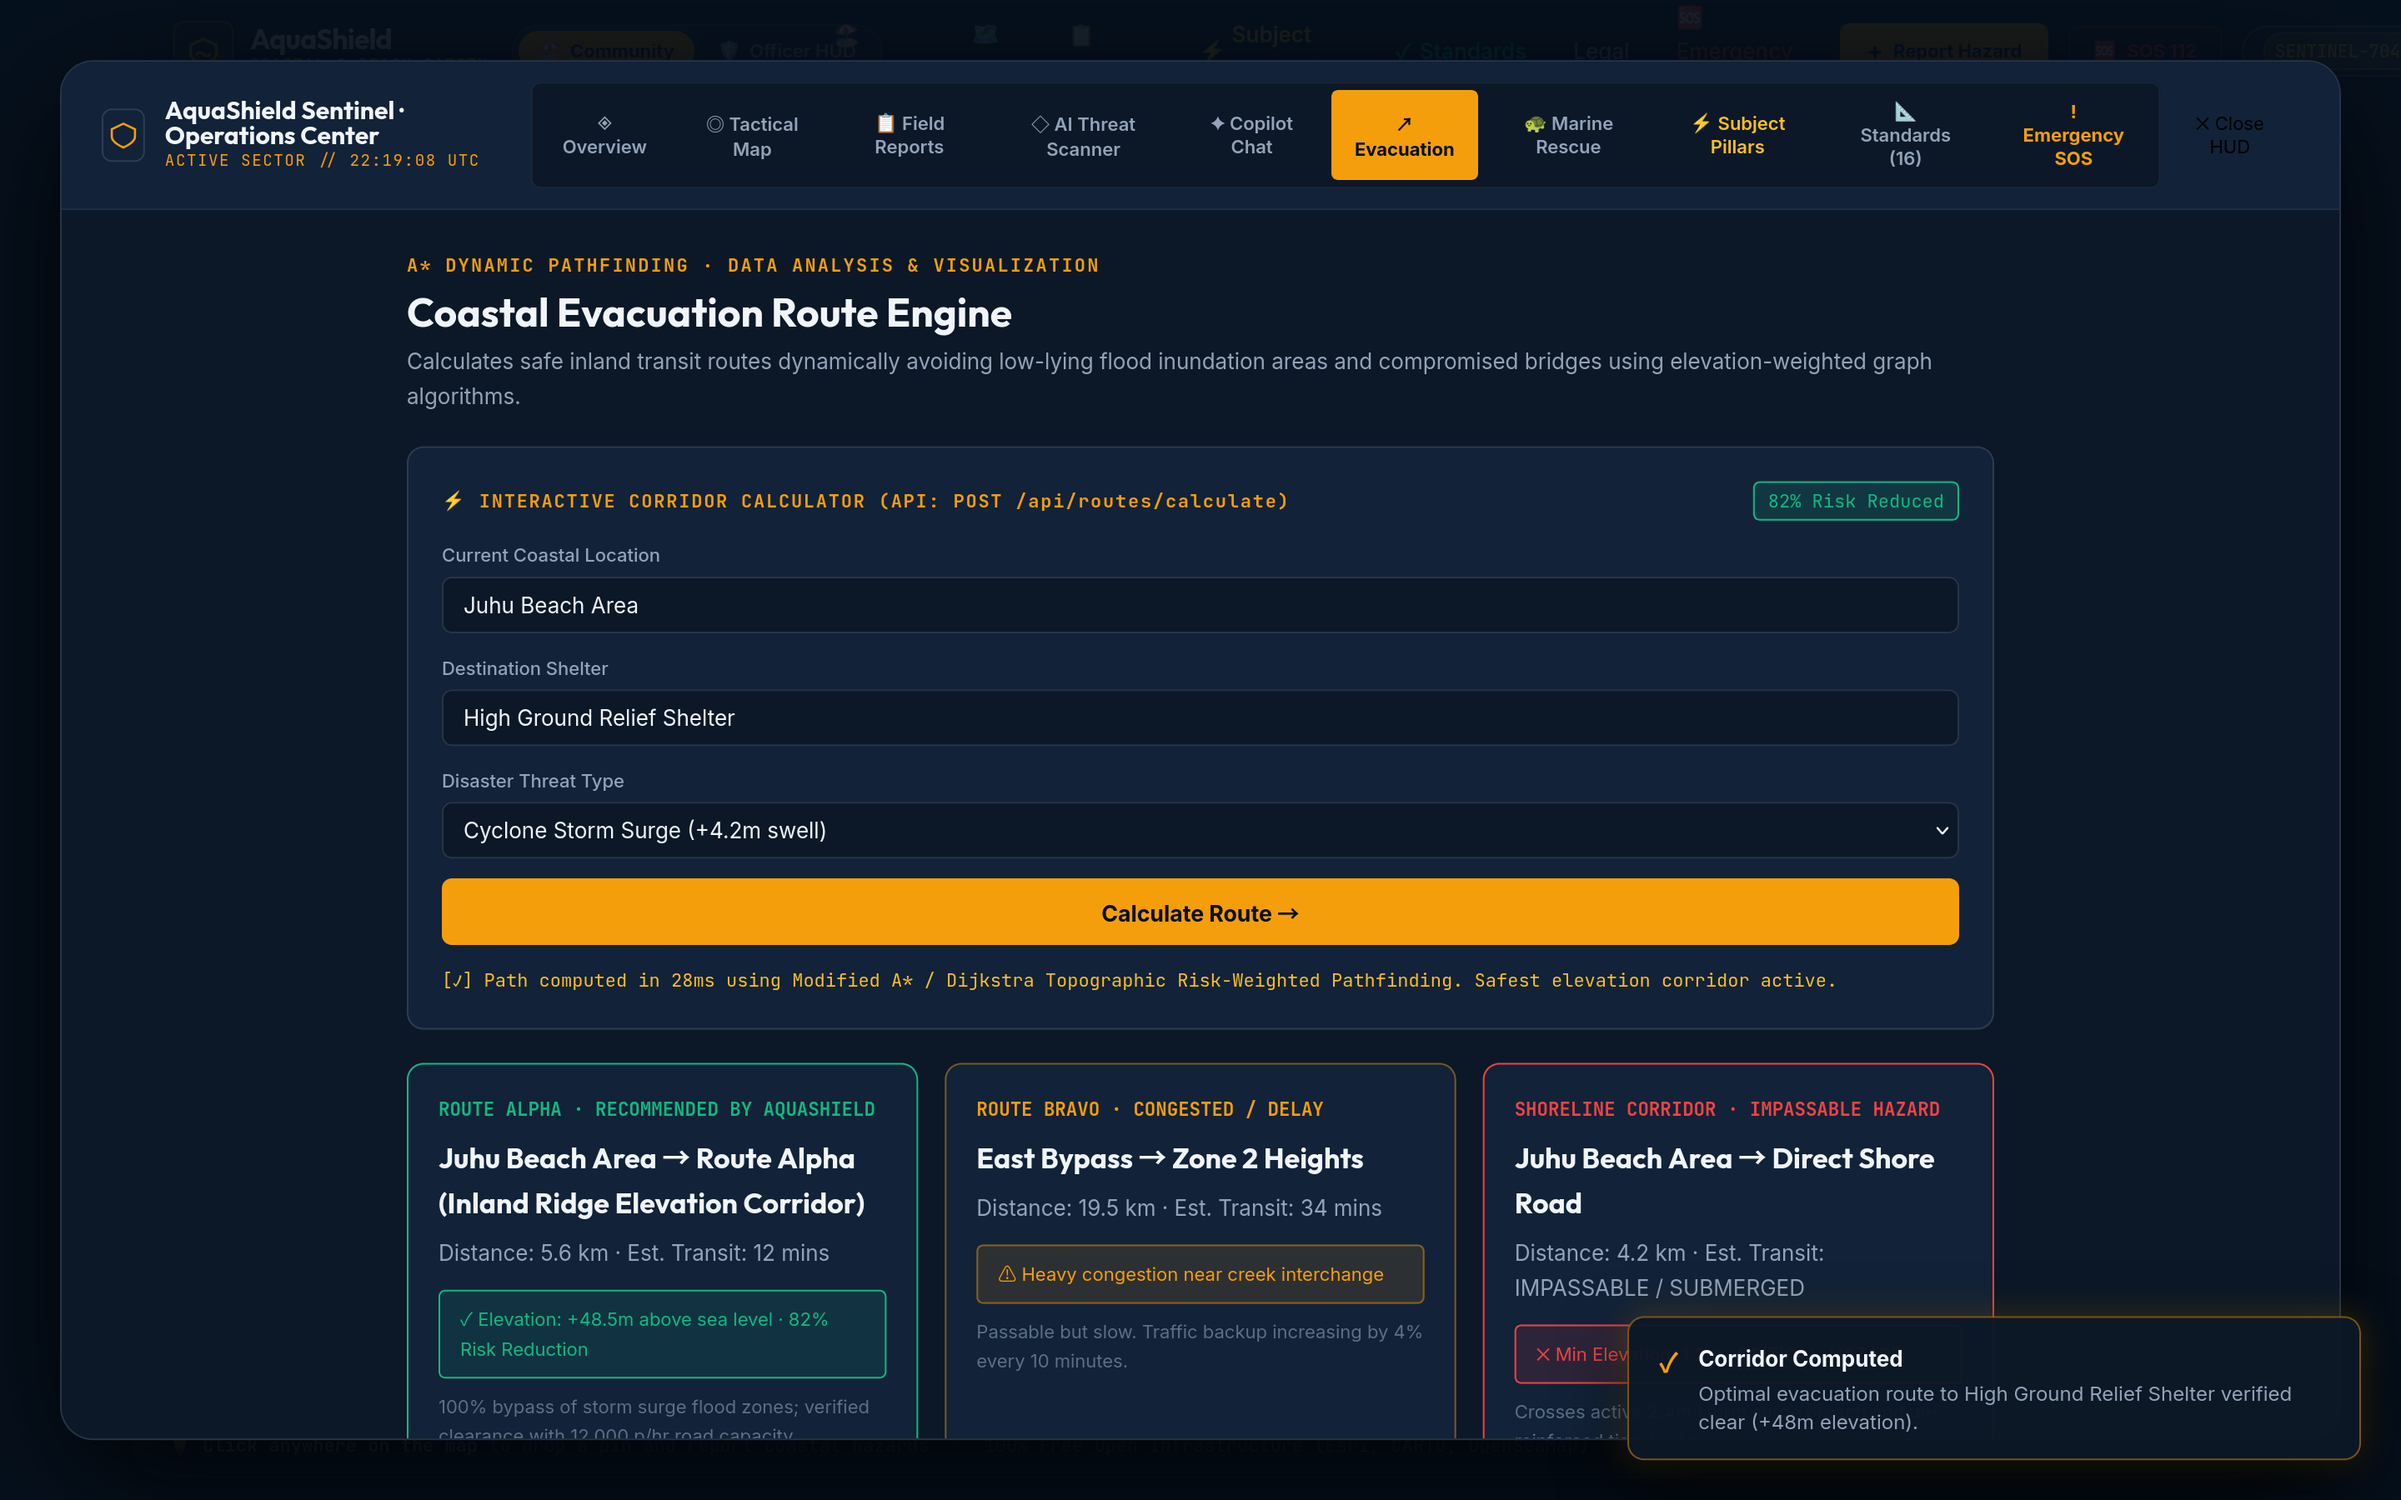
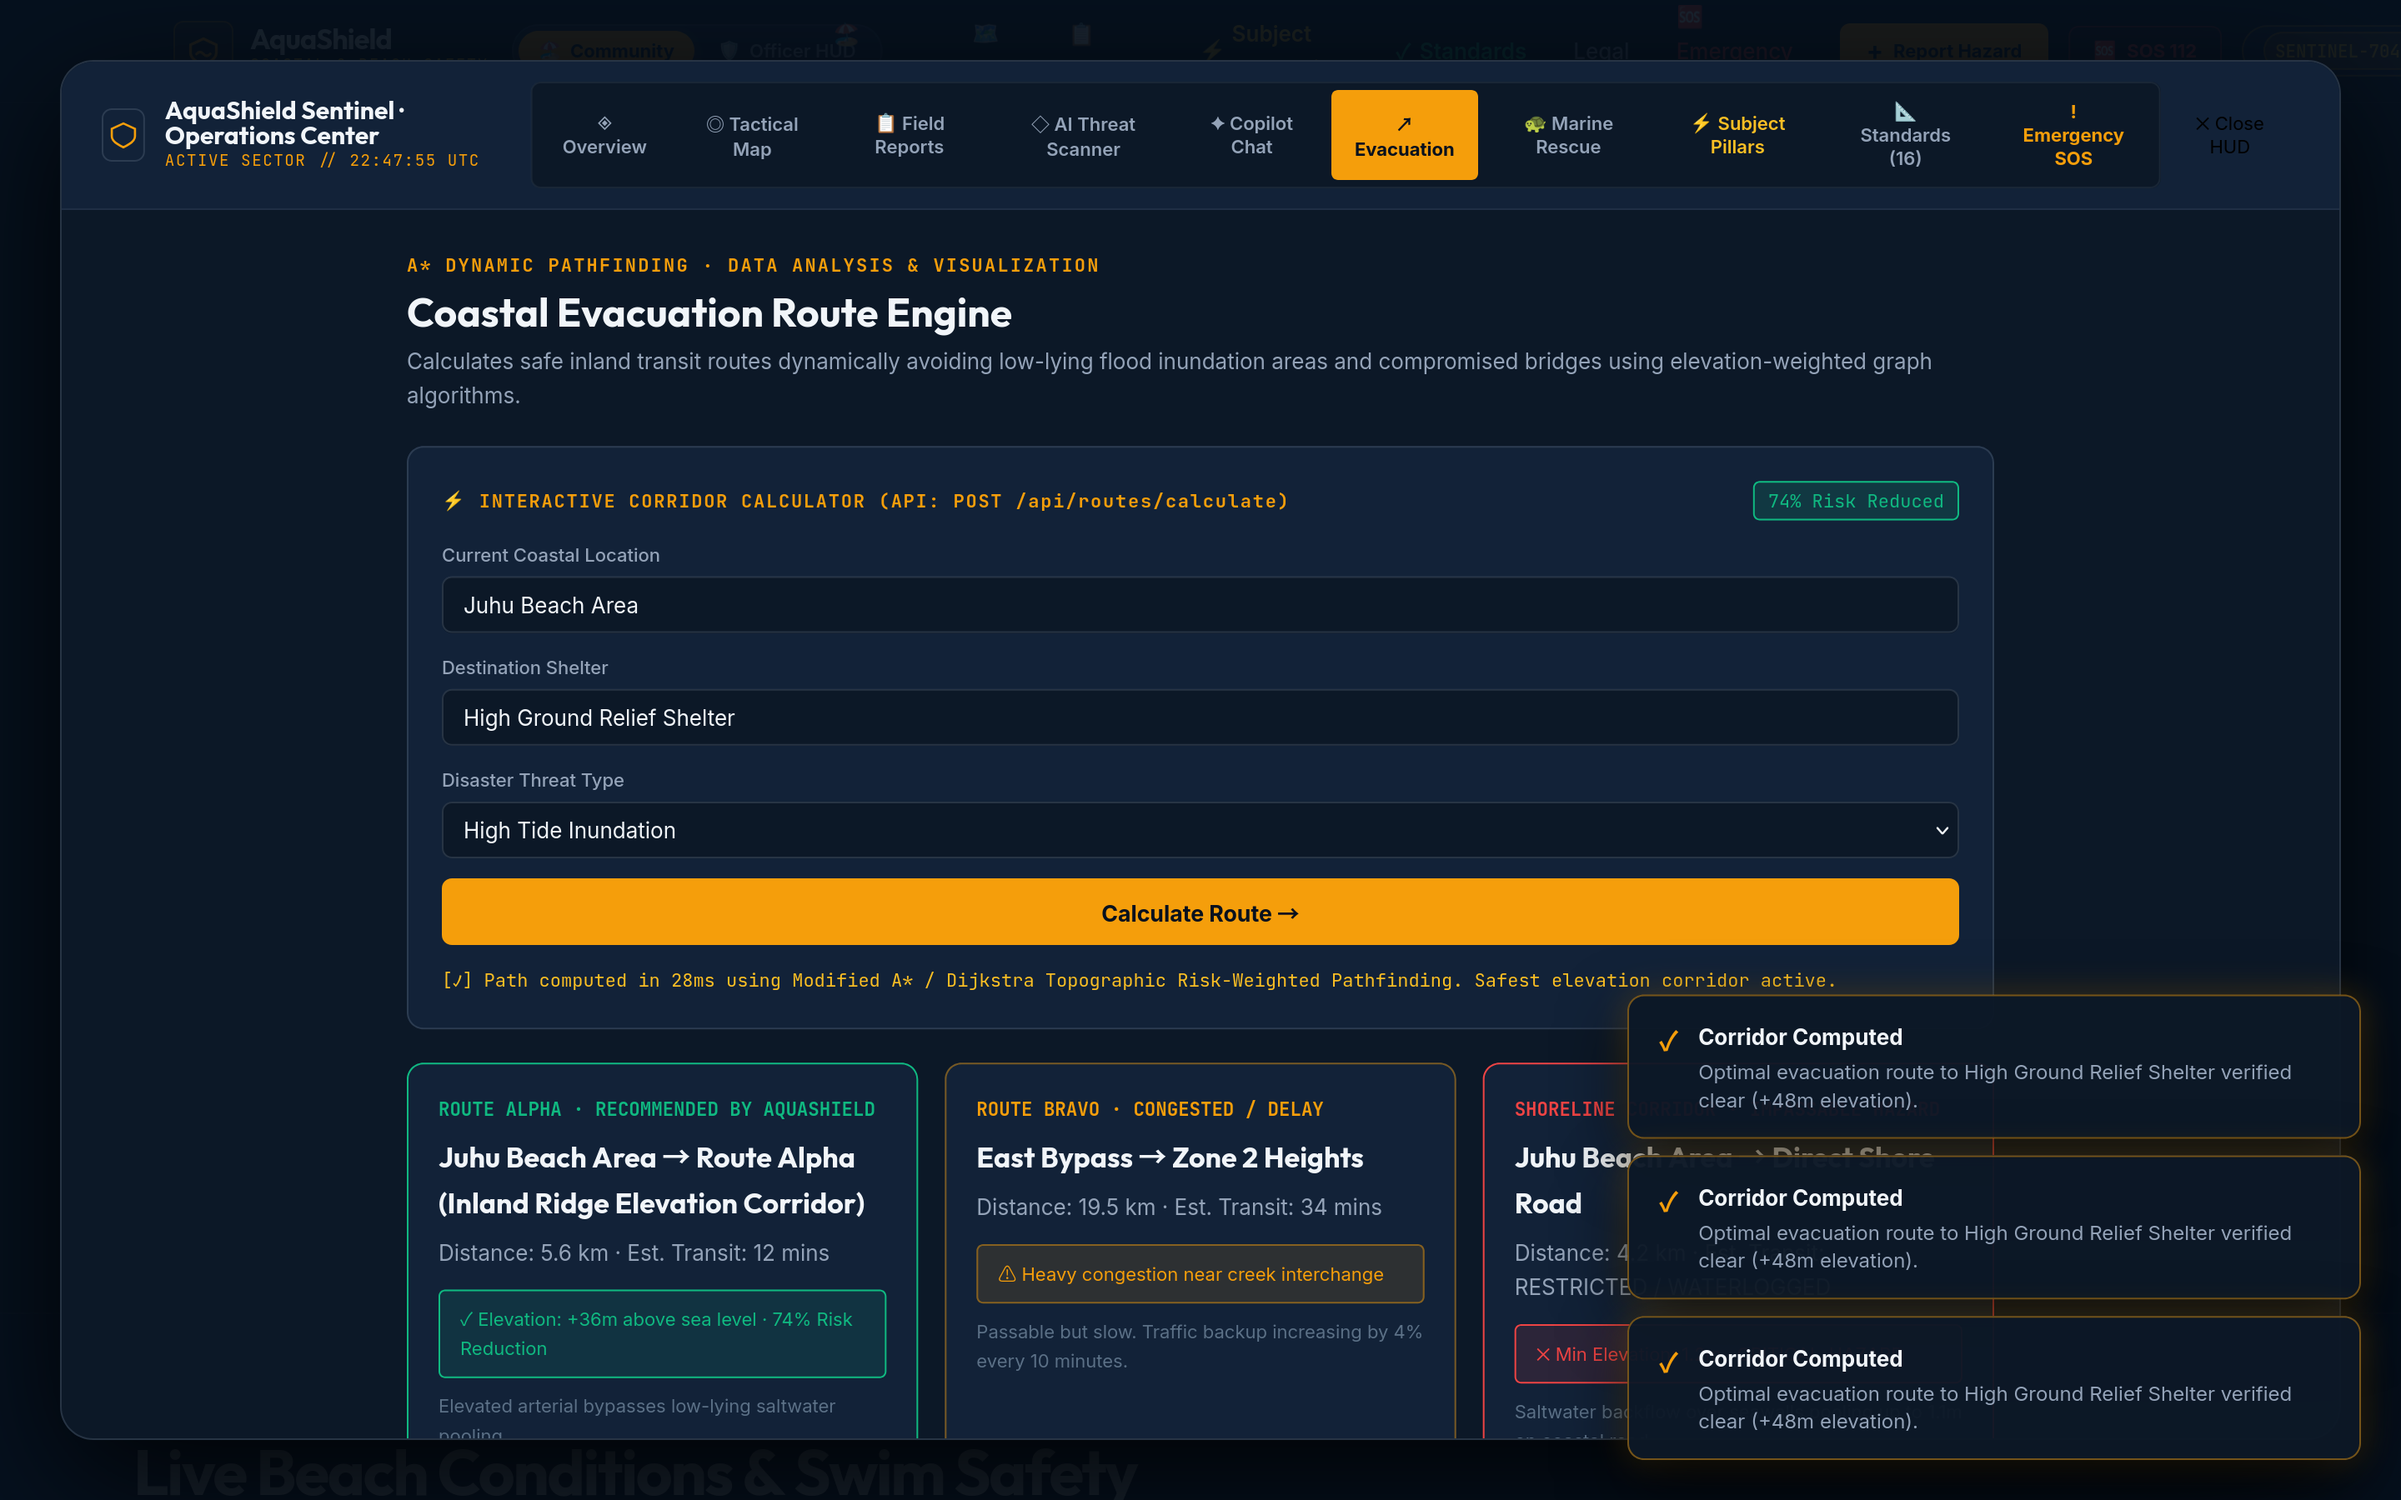
style: remove em-dash occurrences across backend services and add coordinate fallback to routes

diff --git a/backend/app/services/ai_service.py b/backend/app/services/ai_service.py
@@ -310,13 +310,13 @@ class AIService:
             status = "quarantined"
             final_auth_pct = 14.2
             verdict = "2D ARTWORK / ANIME / DIGITAL ILLUSTRATION DETECTED"
-            action = "Quarantined — Artwork / cartoon rejected from Tactical Maritime Grid"
+            action = "Quarantined: Artwork / cartoon rejected from Tactical Maritime Grid"
             pipeline_name = "AquaShield Art-Spectral Vision Filter v2.1"
         elif metadata_tamper_flag:
             status = "quarantined"
             final_auth_pct = 22.4
             verdict = "DIGITAL TAMPERING / EDITING SOFTWARE SIGNATURE"
-            action = "Quarantined — Image contains Photoshop/AI metadata header"
+            action = "Quarantined: Image contains Photoshop/AI metadata header"
             pipeline_name = "AquaShield Dual-Stream EfficientNet-ELA Neural Network v2.1"
         elif dl_auth_prob is not None:
             exif_w = 0.95 if has_exif else 0.70
@@ -338,7 +338,7 @@ class AIService:
             final_auth_pct = round(min(99.4, max(12.0, raw_auth_score * 100.0)), 1)
             pipeline_name = "AquaShield Spectral-ELA Vision Forensics Engine v2.0"
             status = "verified" if final_auth_pct >= 70.0 else "advisory"
-            verdict = "AUTHENTIC OPTICAL FIELD CAPTURE" if status == "verified" else "MODERATE CONFIDENCE — UNVERIFIED SENSOR EXIF"
+            verdict = "AUTHENTIC OPTICAL FIELD CAPTURE" if status == "verified" else "MODERATE CONFIDENCE - UNVERIFIED SENSOR EXIF"
             action = "Verified and logged to grid" if status == "verified" else "Logged with standard priority"
 
         return {
@@ -375,7 +375,7 @@ class AIService:
                 "ela_score": 18.5,
                 "noise_entropy": 31.0,
                 "verdict": "DIGITAL SPLICING / HIGH ELA INCONSISTENCY",
-                "action": "Quarantined — Image compression signature indicates multi-source splicing",
+                "action": "Quarantined: Image compression signature indicates multi-source splicing",
                 "forensics": {
                     "has_exif_metadata": False,
                     "camera_device": "Unknown Optical Sensor",
@@ -399,7 +399,7 @@ class AIService:
                 "ela_score": 11.2,
                 "noise_entropy": 16.0,
                 "verdict": "2D ARTWORK / SYNTHETIC MEDIA DETECTED",
-                "action": "Quarantined — Non-real world optical capture rejected from tactical grid",
+                "action": "Quarantined: Non-real world optical capture rejected from tactical grid",
                 "forensics": {
                     "has_exif_metadata": False,
                     "camera_device": "Digital Illustration Canvas",

diff --git a/backend/app/database.py b/backend/app/database.py
@@ -219,7 +219,7 @@ async def init_db():
                     id          = str(uuid.uuid4()),
                     type        = DisasterType.cyclone,
                     severity    = SeverityLevel.severe,
-                    title       = "Cyclone Biparjoy — Maharashtra Coast",
+                    title       = "Cyclone Biparjoy: Maharashtra Coast",
                     description = "Fishermen advised not to venture into deep sea. Wind 95 km/h, swells 4.2m.",
                     latitude    = 16.7,
                     longitude   = 73.3,
@@ -235,7 +235,7 @@ async def init_db():
                     id          = str(uuid.uuid4()),
                     type        = DisasterType.high_tide,
                     severity    = SeverityLevel.high,
-                    title       = "High Waves Advisory — Kerala & Goa",
+                    title       = "High Waves Advisory: Kerala & Goa",
                     description = "Rough sea conditions with swell heights up to 3.8m. Beach access restricted.",
                     latitude    = 9.9,
                     longitude   = 76.3,
@@ -251,7 +251,7 @@ async def init_db():
                     id          = str(uuid.uuid4()),
                     type        = DisasterType.rainfall,
                     severity    = SeverityLevel.moderate,
-                    title       = "Heavy Rainfall Warning — Karnataka",
+                    title       = "Heavy Rainfall Warning: Karnataka",
                     description = "Localized coastal waterlogging in low-lying sectors.",
                     latitude    = 13.1,
                     longitude   = 74.8,
@@ -267,7 +267,7 @@ async def init_db():
                     id          = str(uuid.uuid4()),
                     type        = DisasterType.tsunami,
                     severity    = SeverityLevel.safe,
-                    title       = "Tsunami Watch Cleared — Tamil Nadu",
+                    title       = "Tsunami Watch Cleared: Tamil Nadu",
                     description = "Seismic ocean activity normal, green swim flags active.",
                     latitude    = 13.0,
                     longitude   = 80.2,

diff --git a/backend/app/services/chat_service.py b/backend/app/services/chat_service.py
@@ -298,7 +298,7 @@ class ChatService:
             
             ready_badge = "🟢 READY TO FILE" if structured["ready_to_file"] else "🟡 NEED MORE DETAILS"
             reply = (
-                f"📝 **AI Incident Scribe — Incident Dossier Generated:**\n\n"
+                f"📝 **AI Incident Scribe: Incident Dossier Generated:**\n\n"
                 f"• **Classification:** `{structured['hazard_type'].upper()}` ({ready_badge})\n"
                 f"• **Incident Title:** **{structured['title']}**\n"
                 f"• **Identified Location:** {structured['location']} (Lat: {structured['latitude']}, Lon: {structured['longitude']})\n"
@@ -369,7 +369,7 @@ class ChatService:
                 "• **Submission Methods:**\n"
                 "  1. **AI Guided Scribe:** You can simply type what you saw directly in this chat (e.g. *'I saw black oily water near Gateway of India'*), and the AI will auto-format and file your complaint!\n"
                 "  2. **Manual Form:** Click **'Submit Incident Report'** or open the Field Reports tab.\n"
-                "  3. Capture or upload a photo — the system automatically geotags exact GPS coordinates.\n"
+                "  3. Capture or upload a photo: the system automatically geotags exact GPS coordinates.\n"
                 "  4. The **Dual-Stream AI** verifies the image authenticity before routing to emergency dispatch.\n\n"
                 f"• **Current Status:** Tracking **{recent_count} active reports** in the incident registry."
             )

diff --git a/backend/app/routers/routes.py b/backend/app/routers/routes.py
@@ -28,7 +28,11 @@ async def calculate_safe_route(
         try:
             body = await request.json()
             orig = orig or body.get("from_loc") or body.get("origin")
+            if not orig and body.get("origin_lat") is not None:
+                orig = f"Location ({body.get('origin_lat')}, {body.get('origin_lng')})"
             dest = dest or body.get("to_loc") or body.get("destination")
+            if not dest and body.get("destination_lat") is not None:
+                dest = f"Location ({body.get('destination_lat')}, {body.get('destination_lng')})"
             distype = distype or body.get("disaster") or body.get("disaster_type")
         except Exception:
             pass
@@ -36,7 +40,11 @@ async def calculate_safe_route(
         try:
             form = await request.form()
             orig = orig or form.get("from_loc") or form.get("origin")
+            if not orig and form.get("origin_lat"):
+                orig = f"Location ({form.get('origin_lat')}, {form.get('origin_lng')})"
             dest = dest or form.get("to_loc") or form.get("destination")
+            if not dest and form.get("destination_lat"):
+                dest = f"Location ({form.get('destination_lat')}, {form.get('destination_lng')})"
             distype = distype or form.get("disaster") or form.get("disaster_type")
         except Exception:
             pass

diff --git a/backend/app/routers/disasters.py b/backend/app/routers/disasters.py
@@ -16,7 +16,7 @@ from app.models.disaster import Disaster, DisasterType, SeverityLevel
 
 router = APIRouter(prefix="/api/disasters", tags=["Disasters"])
 
-# Static weather & buoy telemetry (sensor feed — not stored in DB)
+# Static weather & buoy telemetry (sensor feed: not stored in DB)
 _WEATHER = {
     "temperature":  "28.4°C",
     "wind_speed":   "72 km/h (38.8 kt)",
@@ -111,7 +111,7 @@ class DisasterCreateRequest(BaseModel):
 
 @router.post("")
 async def create_disaster(req: DisasterCreateRequest, db: AsyncSession = Depends(get_db)):
-    """Submit a new disaster event — persisted to the disasters table."""
+    """Submit a new disaster event: persisted to the disasters table."""
     try:
         dtype    = DisasterType(req.type.lower().replace(" ", "_"))
         severity = SeverityLevel(req.severity.lower())
